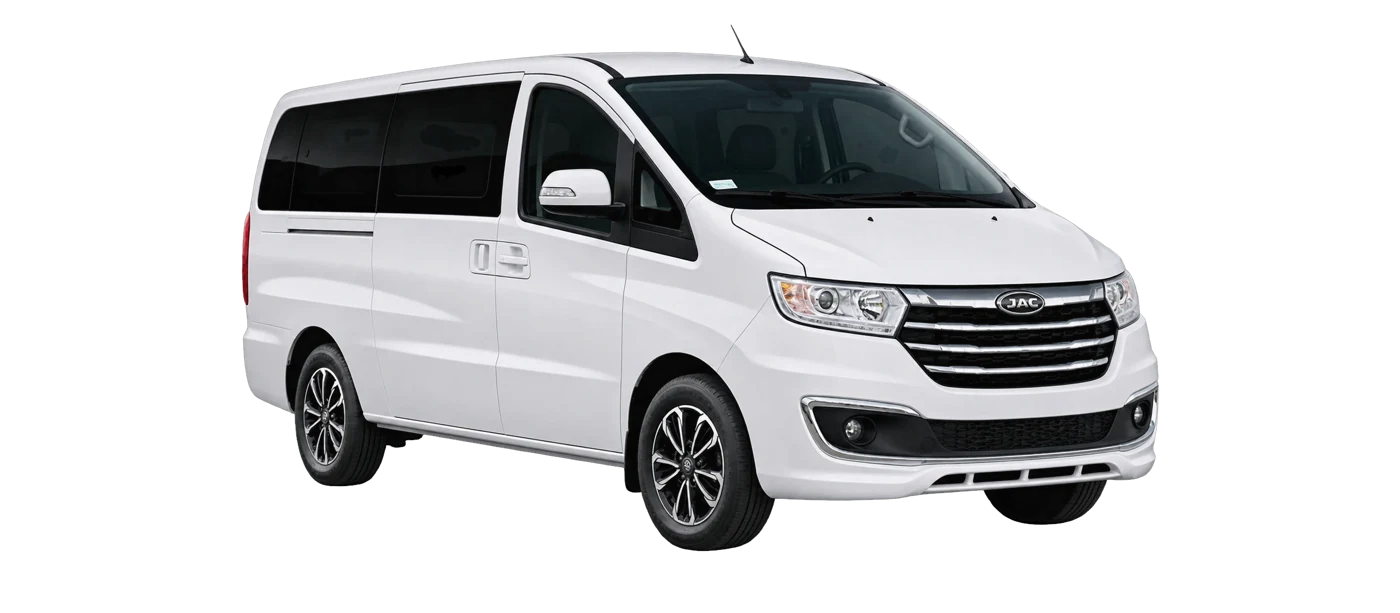
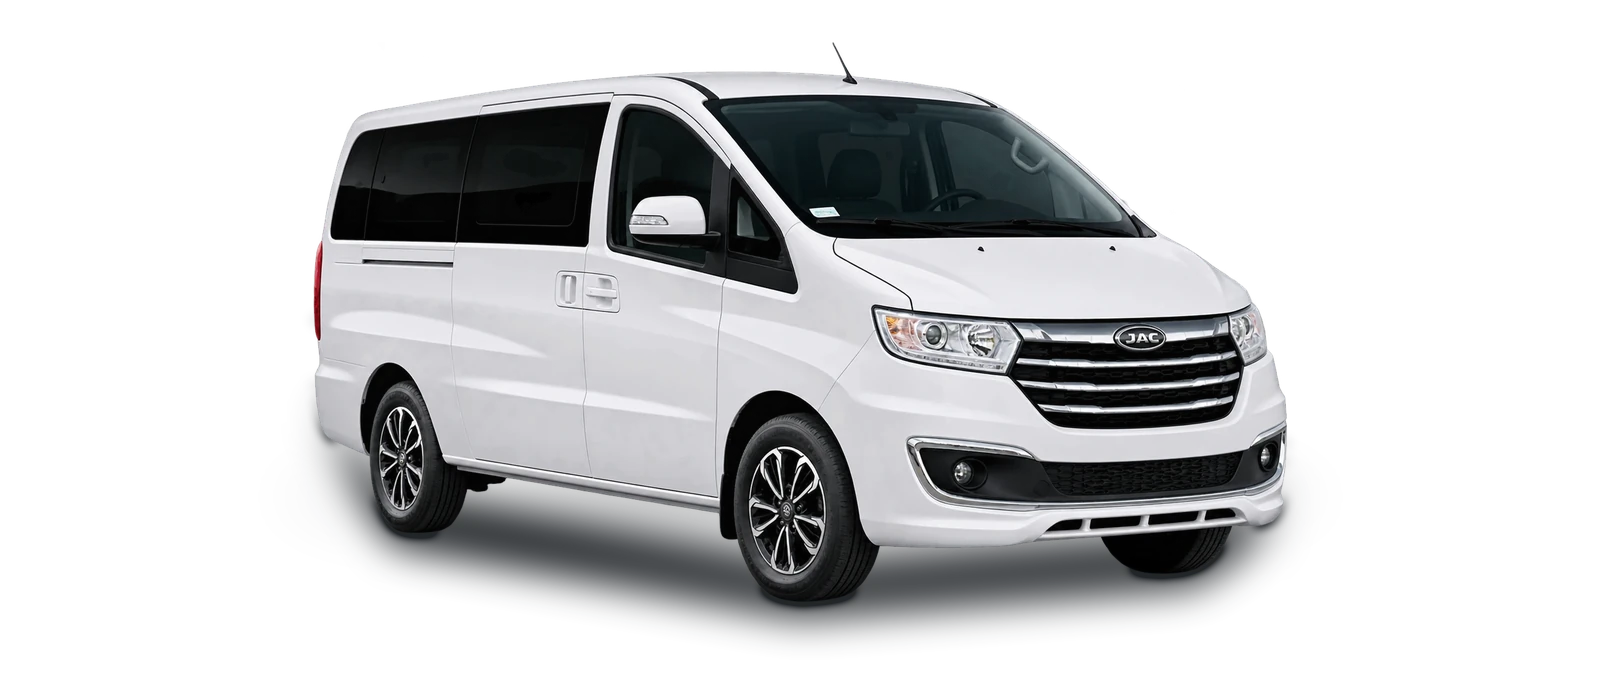
Блок «Цвет кузова»: единый ракурс 3/4 спереди справа и мягкая тень под машинами

Changed region(s): [[0.1536, 0.062, 0.8293, 0.9299], [0.2457, 0.248, 0.2764, 0.279]]

diff --git a/assets/js/main.js b/assets/js/main.js
@@ -206,7 +206,7 @@
       $('[data-model-body]', section).innerHTML = '' +
         '<div class="model__layout">' +
           '<div class="model__stage-col reveal">' +
-            '<div class="stage" data-stage="' + m.id + '">' +
+            '<div class="stage' + (m.spin ? ' stage--spin' : '') + '" data-stage="' + m.id + '">' +
               '<p class="stage__label">' + bk('model.colors') + '<b data-color-name data-ru="' + esc(c0.name.ru) + '" data-uz="' + esc(c0.name.uz) + '">' + esc(tx(c0.name)) + '</b></p>' +
               '<div class="stage__floor" aria-hidden="true"></div>' +
               '<div class="stage__car">' + stageInner + '</div>' +
@@ -300,18 +300,20 @@
   function initSpins() {
     $$('[data-spin]').forEach(function (el) {
       var id = el.getAttribute('data-spin'), m = getModel(id);
-      var sp = spins[id] = { el: el, model: m, cfg: m.spin, frame: 0, loaded: false, auto: !reduceMotion, raf: 0 };
+      var start = m.spin.startFrame || 0; // кадр, с которого начинается показ (ракурс 3/4 спереди справа)
+      var sp = spins[id] = { el: el, model: m, cfg: m.spin, frame: start, loaded: false, auto: !reduceMotion, raf: 0 };
       var startX = 0, startF = 0, dragging = false, lastX = 0, vel = 0, lastT = 0;
       var PX_PER_FRAME = 9; // чувствительность: меньше — быстрее вращение
 
       function load() { if (sp.loaded) return; sp.loaded = true; spinLoad(sp, 0, autoRotate); }
       function autoRotate() {
-        // плавное вращение, пока пользователь не коснулся
-        var acc = 0, prev = performance.now();
+        // один плавный оборот на 360° и остановка в исходном ракурсе
+        var acc = 0, prev = performance.now(), done = 0;
         function tick(now) {
           if (!sp.auto) return;
           acc += (now - prev) / 110; prev = now;
-          if (acc >= 1) { spinFrame(sp, sp.frame + Math.floor(acc)); acc = acc % 1; }
+          if (acc >= 1) { var n = Math.floor(acc); done += n; spinFrame(sp, sp.frame + n); acc = acc % 1; }
+          if (done >= sp.cfg.frames) { spinFrame(sp, start); sp.auto = false; return; }
           sp.raf = requestAnimationFrame(tick);
         }
         if (sp.auto) sp.raf = requestAnimationFrame(tick);

diff --git a/assets/css/style.css b/assets/css/style.css
@@ -271,7 +271,13 @@ body:not(.is-loading) .preloader { opacity: 0; visibility: hidden; }
 .stage { position: relative; border-radius: var(--radius); padding: 64px 12px 20px; color: #1C1C1B;
   background: radial-gradient(80% 70% at 50% 55%, #FFFFFF 0%, #F4F7F9 60%, #E9EEF1 100%);
   box-shadow: 0 24px 60px -24px rgba(0,0,0,.6); overflow: hidden; }
-.stage__floor { position: absolute; left: 14%; right: 14%; bottom: 21%; height: 18px; border-radius: 50%; background: radial-gradient(closest-side, rgba(0,0,0,.18), transparent); filter: blur(6px); }
+/* Тень под машиной: у фото без фона (c-*.webp) тень уже «вшита» в картинку,
+   CSS-тень нужна только для 360° (JS8) */
+.stage__floor { display: none; }
+.stage--spin .stage__floor { display: block; position: absolute; left: 16%; right: 16%; bottom: 20%; height: 26px; border-radius: 50%;
+  background: radial-gradient(closest-side, rgba(10,14,18,.55), rgba(10,14,18,.18) 60%, transparent); filter: blur(7px); }
+.stage--spin .stage__floor::after { content: ''; position: absolute; left: -12%; right: -12%; top: -10px; bottom: -14px; border-radius: 50%;
+  background: radial-gradient(closest-side, rgba(10,14,18,.14), transparent); filter: blur(10px); }
 .stage__car { position: relative; aspect-ratio: 16 / 7; display: grid; place-items: center; }
 .stage__car img { position: absolute; width: 96%; max-height: 100%; object-fit: contain; transition: opacity .6s var(--ease), transform .8s var(--ease-out), filter .6s; }
 .stage__car img.is-leaving { opacity: 0; transform: translateX(-8%) scale(.97); filter: blur(4px); }

diff --git a/assets/js/config.js b/assets/js/config.js
@@ -127,7 +127,7 @@ window.MODELS = [
 
     /* У JS8 вместо фото — 3D-вращение 360°.
        spin — спрайт из кадров (сетка cols × rows). img — статичный кадр (запасной вариант). */
-    spin: { cols: 7, rows: 7, frames: 49, frameW: 533, frameH: 237 },
+    spin: { cols: 7, rows: 7, frames: 49, frameW: 533, frameH: 237, startFrame: 10 },  // startFrame — ракурс 3/4 спереди справа
     colors: [
       { name: { ru: 'Чёрный', uz: 'Qora' },  hex: '#141414', img: 'assets/img/js8/c-black.webp', sprite: 'assets/img/js8/360-black.webp' },
       { name: { ru: 'Белый', uz: 'Oq' },     hex: '#f2f2f2', img: 'assets/img/js8/c-white.webp', sprite: 'assets/img/js8/360-white.webp' },
